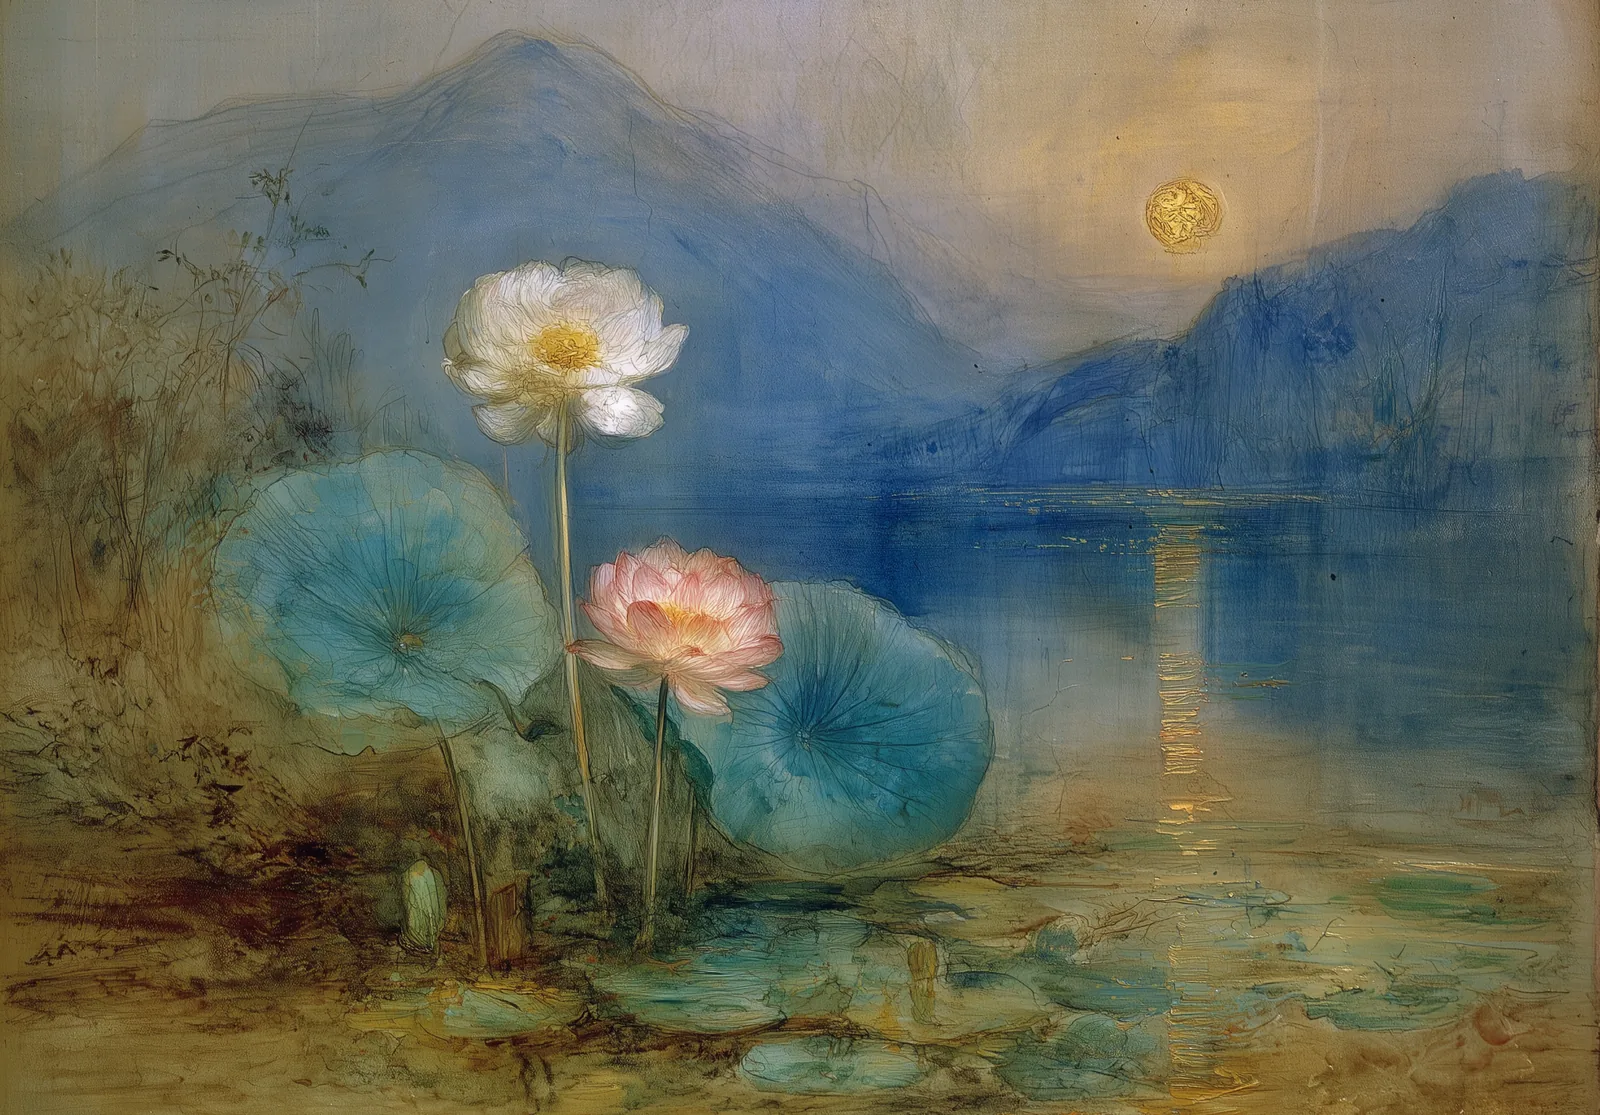
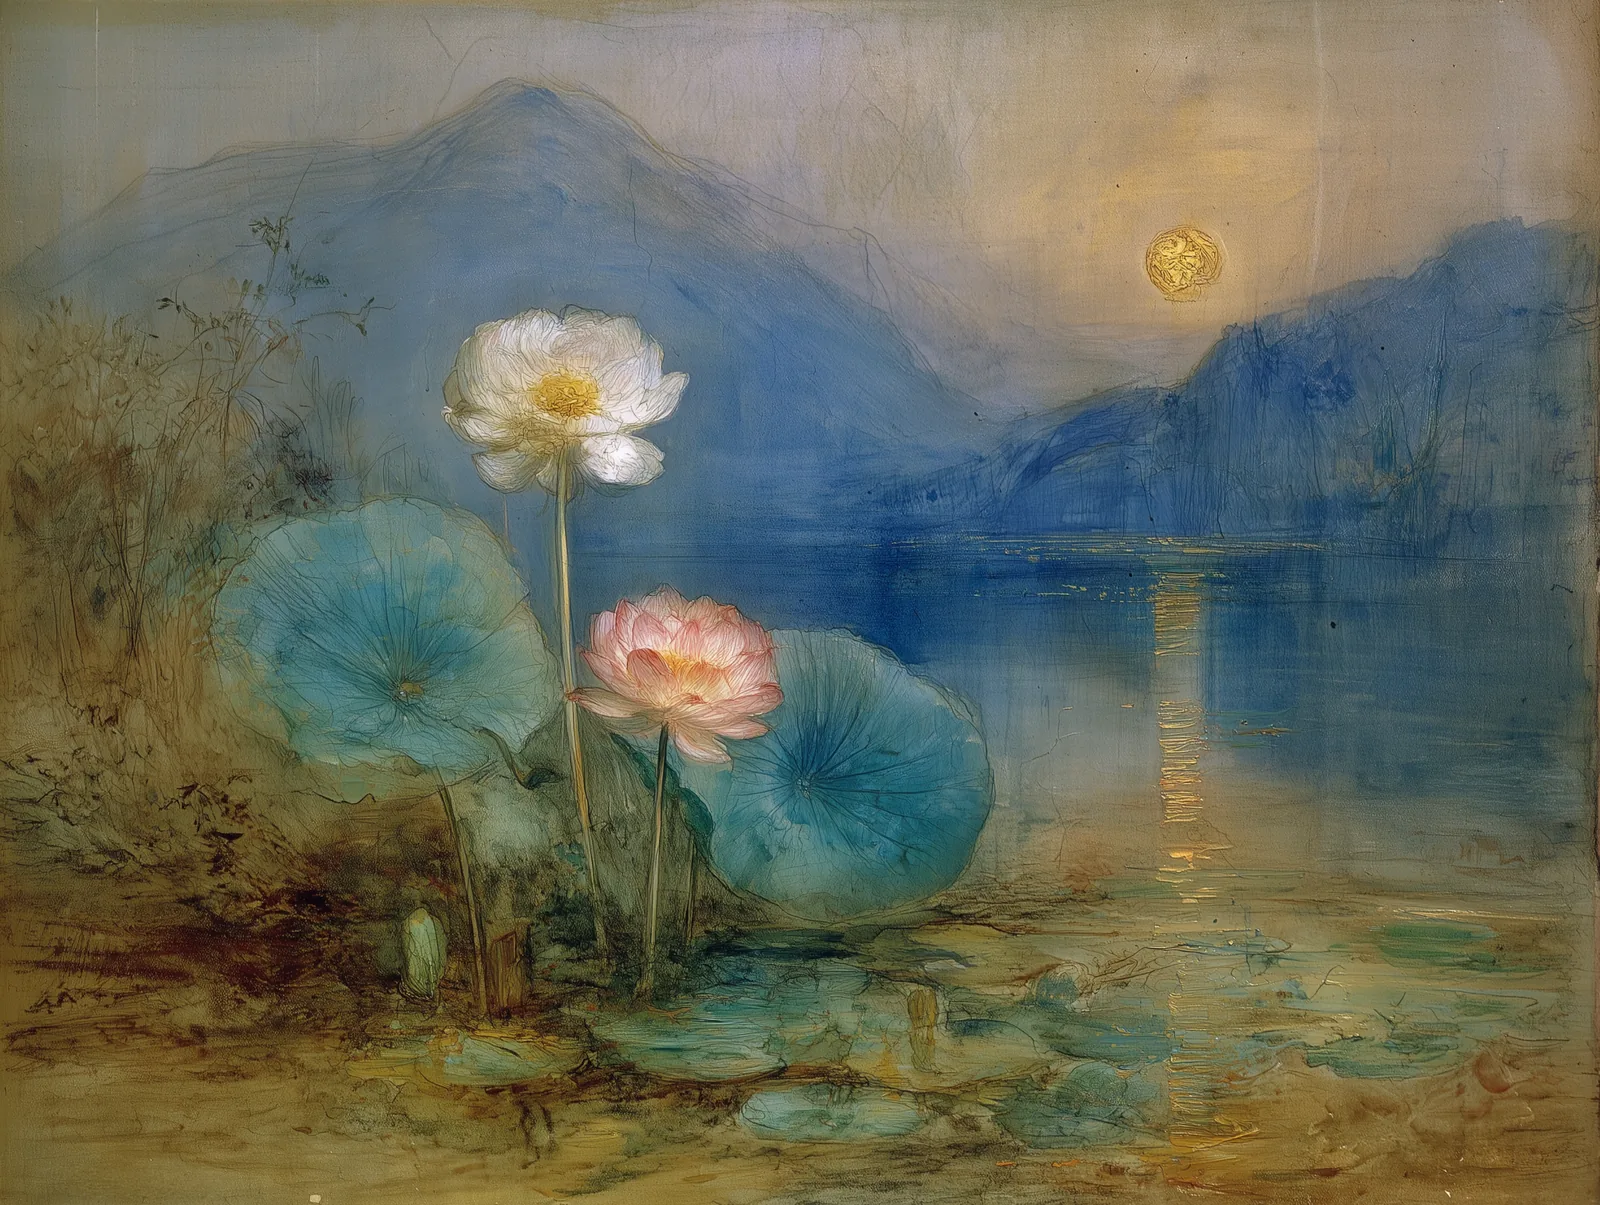
Retouch signatures and text, add lanternfly, update captions, version gallery.json

diff --git a/gallery/index.html b/gallery/index.html
@@ -540,7 +540,21 @@ h1 {
     if (Math.abs(dx) > 50 && Math.abs(dx) > Math.abs(dy) * 1.5) show(current + (dx < 0 ? 1 : -1));
   }, { passive: true });
 
-  fetch('/gallery/gallery.json')
+  // version.txt is never cached; its hash busts the cache of gallery.json after each deploy.
+  fetch('/gallery/version.txt', { cache: 'no-store' })
+    .then(function (r) {
+      if (!r.ok) throw new Error('HTTP ' + r.status);
+      return r.text();
+    })
+    .then(function (v) {
+      v = v.trim();
+      if (!v) throw new Error('empty version');
+      return v;
+    })
+    .catch(function () { return 't' + Date.now(); })
+    .then(function (v) {
+      return fetch('/gallery/gallery.json?v=' + encodeURIComponent(v));
+    })
     .then(function (r) {
       if (!r.ok) throw new Error('HTTP ' + r.status);
       return r.json();

diff --git a/tools/build_gallery.py b/tools/build_gallery.py
@@ -5,29 +5,42 @@ Usage:
 
 Reads:
     tools/gallery_config.json           ("exclude": source file names to drop,
-                                         "crops": {id: {left, top, right, bottom}} as fractions to remove)
+                                         "crops": {id: {left, top, right, bottom}} as fractions to remove,
+                                         "retouch": {id: [{left, top, right, bottom}, ...]} boxes to
+                                         inpaint, as fractions of the source: left/top are the start,
+                                         right/bottom are the end)
 
 Writes:
     gallery/images/display/<slug>.webp  (long edge 1600 px, quality 82)
     gallery/images/full/<slug>.jpg      (long edge max 3000 px, quality 90, progressive)
     gallery/gallery.json                (caption text in existing entries is never changed)
+    gallery/version.txt                 (short hash of gallery.json, for cache busting)
 
 An excluded source loses its gallery.json entry and its outputs. This is the only case
 where the script deletes an entry. An image is rebuilt when its source is newer than its
-outputs, when its crop in the config differs from the "crop" stored in its entry, or
-when --force names its id.
+outputs, when its crop or retouch boxes in the config differ from the "crop" or "retouch"
+stored in its entry, or when --force names its id. Retouch runs on the source pixels
+(cv2.inpaint, Telea) before the crop and the resize. Source files are never changed.
+
+Retouched copies: if <source folder>\..\Retouched\<source file name> exists (for example a
+signature removed in Photoshop), the script reads its pixels instead of the source and
+stores "retouched": true in the entry. Adding or removing a copy rebuilds the image.
 """
 
 import argparse
+import hashlib
 import io
 import json
 import re
 import sys
 from pathlib import Path
 
+import cv2
+import numpy as np
 from PIL import Image, ImageCms, ImageOps
 
 DEFAULT_SOURCE = r"C:\Claude\Projects\Gallery\Images"
+RETOUCHED_FOLDER = "Retouched"  # sibling of the source folder; same file names as the sources
 EXTENSIONS = {".jpg", ".jpeg", ".png", ".tif", ".tiff", ".webp"}
 DISPLAY_EDGE = 1600
 FULL_EDGE = 3000
@@ -38,10 +51,13 @@ GALLERY = REPO / "gallery"
 DISPLAY_DIR = GALLERY / "images" / "display"
 FULL_DIR = GALLERY / "images" / "full"
 JSON_PATH = GALLERY / "gallery.json"
+VERSION_PATH = GALLERY / "version.txt"
 CONFIG_PATH = REPO / "tools" / "gallery_config.json"
 
 SIDES = ("left", "top", "right", "bottom")
 TEXT_FIELDS = ("title", "style", "description", "alt")
+RETOUCH_PAD = 6     # px added on each side of a retouch box before inpainting
+RETOUCH_RADIUS = 7  # cv2.inpaint neighbourhood radius in px
 
 # Trailing Midjourney ID: _<uuid> with an optional _<index>.
 MJ_ID = re.compile(r"_+[0-9a-f]{8}-[0-9a-f]{4}-[0-9a-f]{4}-[0-9a-f]{4}-[0-9a-f]{12}(_\d+)?$", re.I)
@@ -110,9 +126,9 @@ def fit(img, edge):
 
 def load_config():
     if not CONFIG_PATH.exists():
-        return set(), {}
+        return set(), {}, {}
     cfg = json.loads(CONFIG_PATH.read_text(encoding="utf-8"))
-    return set(cfg.get("exclude", [])), cfg.get("crops", {})
+    return set(cfg.get("exclude", [])), cfg.get("crops", {}), cfg.get("retouch", {})
 
 
 def norm_crop(crop):
@@ -139,6 +155,36 @@ def apply_crop(img, crop):
     return img.crop(box)
 
 
+def norm_retouch(boxes):
+    """Return the retouch boxes as a list of {side: fraction}, or None if there are none."""
+    if not boxes:
+        return None
+    out = []
+    for b in boxes:
+        box = {s: round(float(b[s]), 4) for s in SIDES}
+        if not (0 <= box["left"] < box["right"] <= 1 and 0 <= box["top"] < box["bottom"] <= 1):
+            sys.exit(f"Retouch box out of range: {box}")
+        out.append(box)
+    return out
+
+
+def apply_retouch(img, boxes):
+    """Inpaint the boxes (fractions of the image) with cv2.INPAINT_TELEA."""
+    if not boxes:
+        return img
+    w, h = img.size
+    mask = np.zeros((h, w), np.uint8)
+    for b in boxes:
+        x0 = max(0, round(w * b["left"]) - RETOUCH_PAD)
+        y0 = max(0, round(h * b["top"]) - RETOUCH_PAD)
+        x1 = min(w, round(w * b["right"]) + RETOUCH_PAD)
+        y1 = min(h, round(h * b["bottom"]) + RETOUCH_PAD)
+        mask[y0:y1, x0:x1] = 255
+    bgr = cv2.cvtColor(np.asarray(img), cv2.COLOR_RGB2BGR)
+    out = cv2.inpaint(bgr, mask, RETOUCH_RADIUS, cv2.INPAINT_TELEA)
+    return Image.fromarray(cv2.cvtColor(out, cv2.COLOR_BGR2RGB))
+
+
 def is_current(src, outputs):
     mtime = src.stat().st_mtime
     return all(p.exists() and p.stat().st_mtime > mtime for p in outputs)
@@ -161,11 +207,12 @@ def main():
     source = Path(args.source)
     if not source.is_dir():
         sys.exit(f"Source folder not found: {source}")
+    retouched_dir = source.parent / RETOUCHED_FOLDER
 
     DISPLAY_DIR.mkdir(parents=True, exist_ok=True)
     FULL_DIR.mkdir(parents=True, exist_ok=True)
 
-    excluded_names, crops = load_config()
+    excluded_names, crops, retouches = load_config()
 
     entries = json.loads(JSON_PATH.read_text(encoding="utf-8")) if JSON_PATH.exists() else []
 
@@ -202,20 +249,30 @@ def main():
         full = FULL_DIR / f"{slug}.jpg"
         crop = norm_crop(crops.get(slug))
         stored_crop = entry.get("crop") if entry else None
+        retouch = norm_retouch(retouches.get(slug))
+        stored_retouch = entry.get("retouch") if entry else None
+        # A retouched copy (for example from Photoshop) replaces the source pixels.
+        copy = retouched_dir / src.name
+        pixels = copy if copy.is_file() else src
+        is_copy = pixels is copy
+        stored_copy = bool(entry.get("retouched")) if entry else False
 
         if (
-            is_current(src, (display, full))
+            is_current(pixels, (display, full))
             and crop == stored_crop
+            and retouch == stored_retouch
+            and is_copy == stored_copy
             and slug != args.force
-            and not (entry is None and crop)
+            and not (entry is None and (crop or retouch or is_copy))
         ):
             skipped.append(src.name)
             if entry is None:  # Outputs exist but the entry is gone: rebuild the entry.
                 with Image.open(display) as d:
                     dw, dh = d.size
         else:
-            with Image.open(src) as img:
+            with Image.open(pixels) as img:
                 img = to_srgb(ImageOps.exif_transpose(img))
+                img = apply_retouch(img, retouch)
                 img = apply_crop(img, crop)
                 d = fit(img, DISPLAY_EDGE)
                 d.save(display, "WEBP", quality=82, method=6)
@@ -236,6 +293,10 @@ def main():
             }
             if crop:
                 entry["crop"] = crop
+            if retouch:
+                entry["retouch"] = retouch
+            if is_copy:
+                entry["retouched"] = True
             entries.append(entry)
             by_source[src.name] = entry
             new.append(slug)
@@ -247,11 +308,22 @@ def main():
                     entry["crop"] = crop
                 else:
                     entry.pop("crop", None)
+                if retouch:
+                    entry["retouch"] = retouch
+                else:
+                    entry.pop("retouch", None)
+                if is_copy:
+                    entry["retouched"] = True
+                else:
+                    entry.pop("retouched", None)
 
     present = {p.name for p in files}
     missing = [e["source_name"] for e in entries if e["source_name"] not in present]
 
-    JSON_PATH.write_text(json.dumps(entries, indent=2, ensure_ascii=False) + "\n", encoding="utf-8")
+    text = json.dumps(entries, indent=2, ensure_ascii=False) + "\n"
+    JSON_PATH.write_text(text, encoding="utf-8")
+    version = hashlib.sha256(text.encode("utf-8")).hexdigest()[:10]
+    VERSION_PATH.write_text(version + "\n", encoding="utf-8")
 
     print(f"Source folder:   {source}")
     print(f"Images found:    {len(files)}")
@@ -266,6 +338,7 @@ def main():
     for name in missing:
         print(f"  - {name}")
     print(f"Total entries:   {len(entries)}")
+    print(f"Version:         {version}")
     print(f"display size:    {mb(folder_size(DISPLAY_DIR))}")
     print(f"full size:       {mb(folder_size(FULL_DIR))}")
 

diff --git a/docs/ADD-GALLERY-IMAGES.md b/docs/ADD-GALLERY-IMAGES.md
@@ -9,8 +9,10 @@ The gallery page is `gallery/index.html`. It loads `gallery/gallery.json` and sh
 | `C:\Claude\Projects\Gallery\Images` | Source folder for the images. |
 | `C:\Claude\Projects\Gallery\Midjourney-Prompt-Index.md` | Prompts for the source images, and the "Not mine" list. |
 | `tools/build_gallery.py` | Makes the web images and updates `gallery/gallery.json`. |
-| `tools/gallery_config.json` | Crops and exclusions. |
+| `tools/gallery_config.json` | Exclusions, retouch boxes, and crops. |
+| `C:\Claude\Projects\Gallery\Retouched` | Retouched copies of source images, with the same file names. The build script uses them instead of the sources. |
 | `gallery/gallery.json` | One entry for each image, with the captions. |
+| `gallery/version.txt` | Short hash of `gallery.json`. The build script writes it. The page uses it to load the newest `gallery.json` after a deploy. |
 | `gallery/images/display/<id>.webp` | Grid image. Long edge 1600 px. |
 | `gallery/images/full/<id>.jpg` | Lightbox image. Long edge max 3000 px. |
 
@@ -44,27 +46,48 @@ The script makes the web images for new sources only. It adds a new entry with e
    - Do not use the words "AI" or "Midjourney" in a caption.
 5. Delete the previews.
 
-### 4. Remove fake signatures, logos, and mastheads
+### 4. Signatures, logos, and mastheads
 
-1. Examine each new preview for a fake signature, a logo, or magazine masthead text. Examine the corners and the edges closely.
-2. To remove a mark, add a crop for the image `id` to `tools/gallery_config.json`. The values are fractions of the source image to remove from each side:
+Examine each new preview for marks. Examine the corners and the edges closely. Obey these rules:
+
+- If an image shows a real artist signature, remove it with `retouch` boxes. Do not crop. If the retouch leaves a visible trace, exclude the image.
+- If an image shows a real logo or real masthead, exclude it.
+- Keep images with scribbles or generic fake lettering. Do not crop or retouch them.
+
+To retouch a signature, use Photoshop first. It matches the texture better than `cv2.inpaint`:
+
+1. Open the source image in Photoshop. Select a rectangle that covers each signature. Run Generative Remove.
+2. Export a PNG with the same file name to `C:\Claude\Projects\Gallery\Retouched`. Close the document without saving. Do not change the source file.
+3. Run the build script. If a file with the same name is in `Retouched`, the script uses it instead of the source and stores `"retouched": true` in the entry.
+4. Check the result with the same pass rules as below.
+
+If Photoshop is not available, use `retouch` boxes:
+
+1. Add `retouch` boxes for the image `id` to `tools/gallery_config.json`. Each box is a rectangle in fractions of the source image. `left` and `top` are the start. `right` and `bottom` are the end. An entry can have more than one box:
 
    ```json
-   "crops": {
-     "<id>": {"left": 0.0, "top": 0.0, "right": 0.0, "bottom": 0.06}
+   "retouch": {
+     "<id>": [{"left": 0.06, "top": 0.90, "right": 0.21, "bottom": 0.94}]
    }
    ```
 
-   - Use the smallest crop that removes the mark fully.
-   - Crop one or two sides only.
-3. If a crop must remove more than 15% of the width or height, or cuts into the main subject, exclude the image. Add its source file name to `exclude`:
+   - Use the smallest boxes that cover each signature fully.
+   - The script expands each box by a few pixels and fills it with `cv2.inpaint` (Telea). The source file does not change.
+2. Run the build script again. It rebuilds each image whose `retouch` boxes changed.
+3. Make a 512 px preview of the image and a 512 px close crop of each retouched area.
+4. The retouch passes only if all of these are true:
+   - No letter or part of a letter is visible.
+   - The filled area matches the texture and color around it, with no visible smear or blur patch.
+   - The retouch does not touch a person, face, or hand.
+5. If the retouch does not pass after 2 attempts, exclude the image.
 
-   ```json
-   "exclude": ["<source file name>"]
-   ```
+To exclude an image, add its source file name to `exclude`. The build script removes its entry and its web images:
 
-4. Run the build script again. It rebuilds each image whose crop changed. It removes the entry and the web images of each excluded source.
-5. Make a new 512 px preview of each cropped image. Make sure that no mark is visible.
+```json
+"exclude": ["<source file name>"]
+```
+
+The script also supports `crops`, but use a crop only if Adam asks for one.
 
 To rebuild one image, use this command:
 
